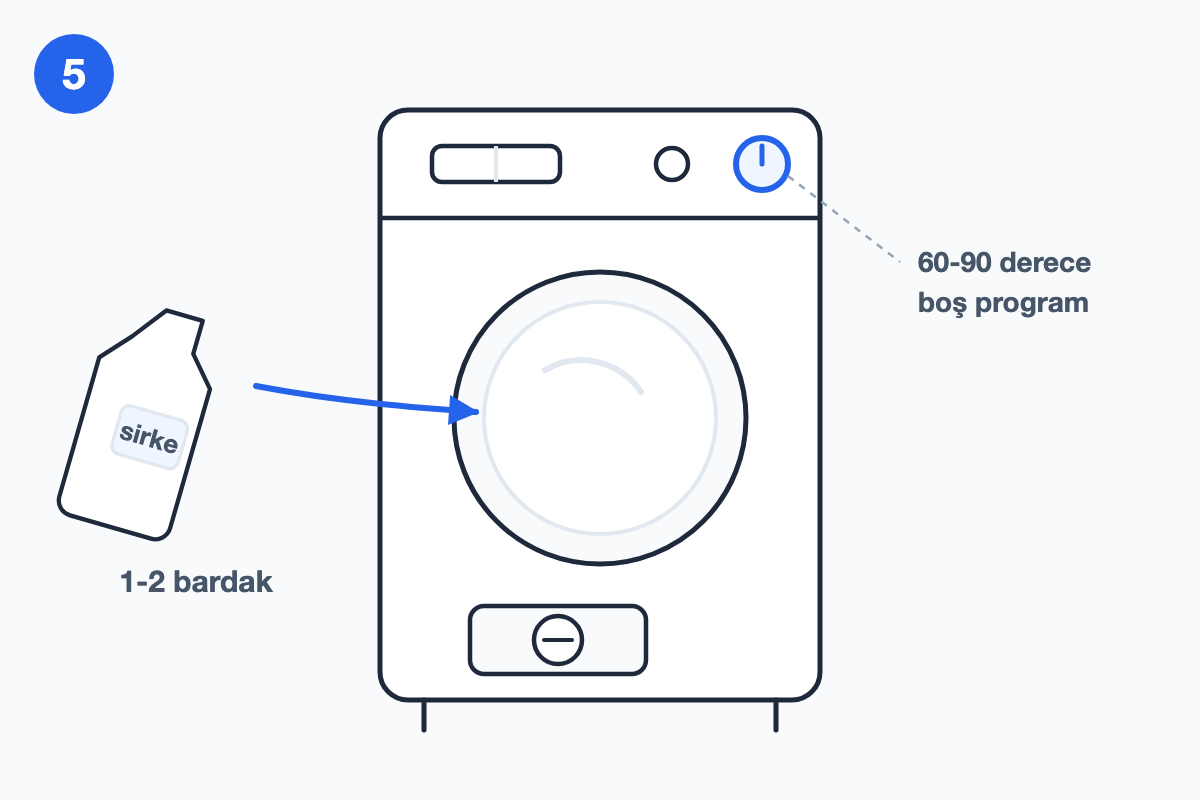
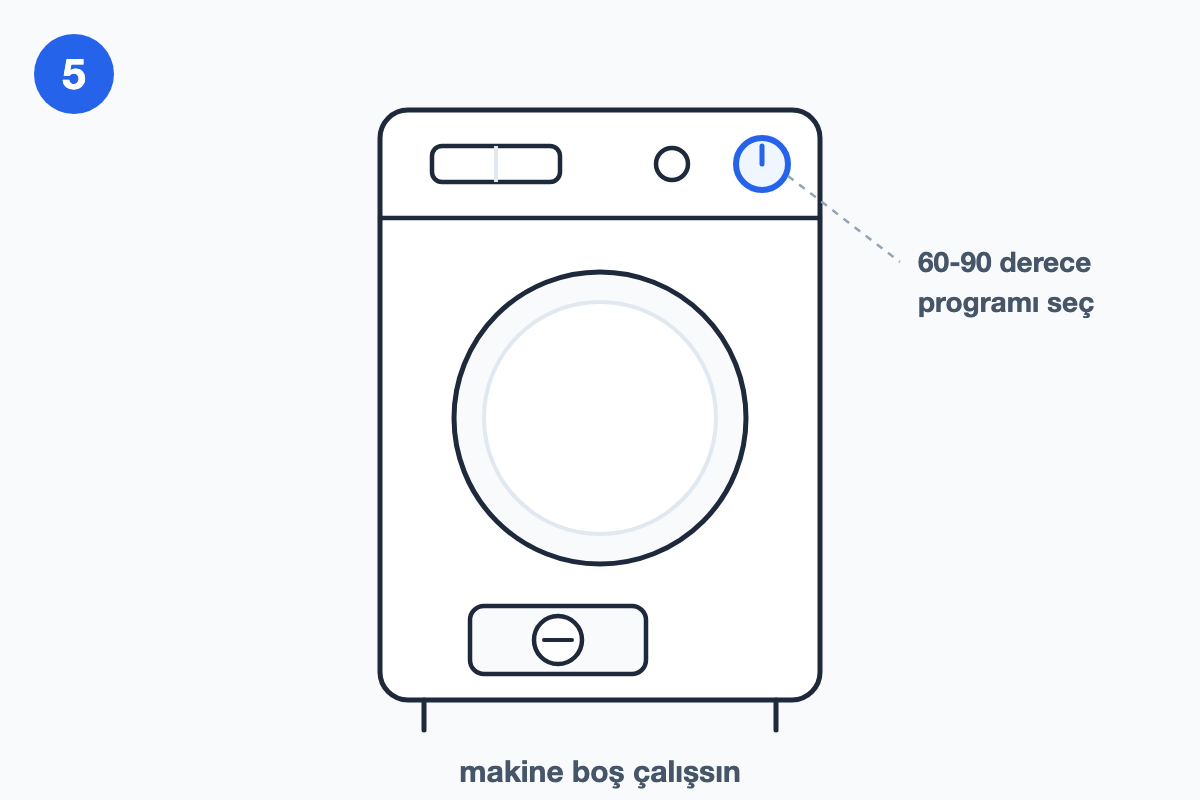
Sirke kurali: iki koku rehberinden tavsiye cikarildi + 5 kare yenilendi (SW v8)
Tolga kurali (22 Agu): "makinaya zarar verebilecek disaridan eklenecek bir
sivi ile ilgili tavsiye verme". Kaynak: PAZ foyu + GRF teslim notu.

Metin (3 dosya):
- camasir-makinesi-kokuyor: tools/steps/govde/2 FAQ/2 ozet + steps alt metni
- bulasik-makinesi-kokuyor: tools/steps/govde/FAQ/ozet + steps alt metni
- kirec-ve-tambur: dogrulanamayan "olculu kullanima sicak bakiyor" iddiasi
  govdede VE FAQ'ta duzeltildi (foy govdeyi yaziyordu; ayni iddia FAQ'ta da
  vardi, birakilsa sayfa kendi icinde celisirdi)
Adim sayisi degismedi -> rehberDenetimi() gorsel-adim hizasi bozulmadi.

Gorsel (5 kare, PNG + WebP):
- bulasik: kapak, adim-01, adim-03, adim-06
- camasir: adim-05
KAPSAM DUZELTMESI: GRF notu "6 PNG + 6 WebP" diyordu. Olctum ->
camasir kapak.webp 19 Agu'da GERCEK FOTOGRAFA cevrilmis (Kling seti,
coverAlt "turkuaz havlular" onunla hizali) ve cozucude webp png'yi yeniyor
(GORSEL_UZANTILARI). Cizim webp'i uretilseydi fotograf kapak cizime geri
donerdi -> uretilmedi. PNG yine de kopyalandi (webp bir gun kalkarsa
sirkeli cizim yuzeye cikmasin diye). bulasik kapak.webp ise HALA sirke
sisesiydi -> og:image olarak canlidaydi, degistirildi.

SW v7 -> v8: dosya adlari ayni; SWR birakilsaydi metin ilk acilista yeni,
gorsel bir acilis eski kalirdi -> "sirke onermiyoruz" cumlesi sirkeli
kareyle birlikte gorunurdu. Repoda yerlesik desen (v3->v4, v4->v5, v5->v6
hep ayni sebep), burada ayrica zarar duzeltmesi.

Kapilar: vite build temiz · rehber denetimi 123 ✓ · YK #65 208/208 ✓ ·
[…]

diff --git a/public/sw.js b/public/sw.js
@@ -46,7 +46,14 @@
 // ederdi. Yol SWR listesine alındı, sürüm artışı geriye dönük temizliği yapıyor.
 // v5 → v6 (20 Ağu, Kling dalga 3): camasir-kac-derecede-yikanir + camasir-makinesi-
 // ses-titresim kapakları AYNI adla değişti (kusurlu kareler yenilendi) → 19 Ağu kuralı.
-const SURUM = "benservis-v7";
+// v7 → v8 (22 Ağu, sirke kuralı): bulasik-makinesi-kokuyor kapak + adim-01/03/06 ve
+// camasir-makinesi-kokuyor adim-05 AYNI adla değişti. Buradaki fark, önceki dört
+// artıştan daha ağır: değişiklik bir kare tazelemesi değil, "makineye zarar verebilir"
+// düzeltmesi. SWR bıraksaydık metin İLK açılışta yeni gelir (HTML network-first),
+// görsel ise BİR açılış eski kalırdı → kullanıcı "sirke önermiyoruz" cümlesini sirke
+// şişeli kareyle birlikte görürdü; bulaşıkta o kare kapağın kendisi, yani og:image.
+// Bedeli (tüm cache boşalır, herkes yeniden indirir) bu pencereye tercih edildi.
+const SURUM = "benservis-v8";
 const KABUK_CACHE = `${SURUM}-kabuk`;
 const STATIK_CACHE = `${SURUM}-statik`;
 const DIZIN_CACHE = `${SURUM}-servis-dizini`;

diff --git a/content/blog/camasir-makinesi-kokuyor.md b/content/blog/camasir-makinesi-kokuyor.md
@@ -11,13 +11,13 @@ guide:
   time: "~25 dakika"
   totalTime: "PT25M"
   cost: "Ücretsiz"
-  tools: ["Yumuşak bez veya sünger", "Beyaz sirke (1-2 bardak)", "Havlu", "Eldiven (önerilir)"]
+  tools: ["Yumuşak bez veya sünger", "Havlu", "Eldiven (önerilir)"]
 steps:
   - "Tamburu boşalt; içinde çamaşır kalmasın."
   - "Kapı contasının kıvrımlarını aç ve nemli bezle sil; saç, tüy ve kalıntıyı temizle."
   - "Deterjan çekmecesini çıkar, ılık suda yıka, yuvasını da sil ve kurut."
   - "Alt köşedeki tahliye filtresini havlu ve kap koyarak çıkar, temizle, sonuna kadar geri tak."
-  - "Tambura 1-2 bardak beyaz sirke ekle ve makineyi boş, 60-90 derece bir programda çalıştır."
+  - "Makineyi boş olarak 60-90 derece bir programda çalıştır; katkı gerekiyorsa kılavuzunun ya da üreticinin önerdiği makine temizleyicisini kullan."
   - "Program bitince contayı ve kapak çevresini kurula, kapağı açık bırak."
 # GRF adım görselleri BAĞLANDI (4 Ağu 2026): public/tamir-gorsel/<slug>/adim-0N.png + kapak.png
 # Sıra ÖNEMLİ: images.steps[N-1] ↔ adim-0N.png ↔ yukarıdaki steps[N-1].
@@ -28,15 +28,15 @@ images:
     - "Kapı contası kıvrımlarının açılıp nemli bezle silinişini gösteren çizim"
     - "Deterjan çekmecesinin çıkarılıp ılık suda yıkanışını gösteren çizim"
     - "Alt köşedeki tahliye filtresinin havlu ve kapla çıkarılışını gösteren çizim"
-    - "Tambura beyaz sirke eklenip yüksek sıcaklıkta boş programın başlatılışını gösteren çizim"
+    - "Boş çamaşır makinesinde yüksek sıcaklıkta programın başlatılışını gösteren çizim"
     - "Program sonunda contanın kurulanıp kapağın açık bırakılışını gösteren çizim"
 faq:
   - q: "Çamaşır makinesi neden kötü kokar?"
     a: "En sık sebep nemli ortamda üreyen küf ve bakteridir. Kapı contasında biriken kir/nem, deterjan çekmecesindeki kalıntı, tıkalı tahliye filtresi, kireç birikimi ve hep düşük sıcaklıkta yıkamak kokuya yol açar."
   - q: "Çamaşır makinesi kokusu nasıl geçer?"
-    a: "Makineyi boş, en yüksek sıcaklıkta (60-90°) bir program ile çalıştır; tambura 1-2 bardak beyaz sirke ya da makine temizleyici ekle. Ardından kapı contasını, deterjan çekmecesini ve tahliye filtresini temizle. Her yıkamadan sonra kapağı açık bırak."
+    a: "Makineyi boş, en yüksek sıcaklıkta (60-90°) bir program ile çalıştır; gerekirse kılavuzunun önerdiği makine temizleyicisini kullan; sirke gibi ev tarifelerini önermiyoruz, bazı üreticiler lastik parçalara zarar verebileceğini belirtiyor. Ardından kapı contasını, deterjan çekmecesini ve tahliye filtresini temizle. Her yıkamadan sonra kapağı açık bırak."
   - q: "Kapı contasından küf kokusu geliyorsa ne yapmalı?"
-    a: "Ön yüklemeli makinelerde lastik contanın kıvrımlarında su ve kir birikir, küf yapar. Contayı bez ve beyaz sirke/karbonatla sil, kıvrımların arasını temizle ve kuru bırak. Küf lekesi çıkmıyorsa conta değişebilir."
+    a: "Ön yüklemeli makinelerde lastik contanın kıvrımlarında su ve kir birikir, küf yapar. Contayı nemli bezle, gerekirse biraz bulaşık deterjanlı suyla sil, kıvrımların arasını temizle ve kuru bırak. Küf lekesi çıkmıyorsa conta değişebilir."
   - q: "Her şeyi temizledim ama koku geçmiyor, sebebi ne?"
     a: "Conta, çekmece ve filtre temiz olduğu hâlde koku sürüyorsa tahliye hattında (pompa, hortum, sifon) biriken biyofilm ya da tıkanıklık olabilir. Bu genelde servis işidir; kesin tahmini Benservis'ten al."
 ---
@@ -69,7 +69,7 @@ Güvenli ve çoğu zaman ücretsiz:
 
 **4. Alt köşedeki tahliye filtresini havlu ve kap koyarak çıkar, temizle, sonuna kadar geri tak.** Bu adımın ayrıntısı ayrı rehberimizde: [tahliye filtresi nasıl temizlenir](/blog/camasir-makinesi-tahliye-filtresi-temizleme/).
 
-**5. Tambura 1-2 bardak beyaz sirke ekle ve makineyi boş, 60-90 derece bir programda çalıştır.**
+**5. Makineyi boş olarak 60-90 derece bir programda çalıştır.** Kokuyu asıl alan sıcaklıktır; katkı şart değildir. Bir temizleyici kullanacaksan cihazının kullanım kılavuzuna bak — kılavuz bir ürün adı veriyorsa onu, vermiyorsa üreticinin kendi makine temizleyicisini kullan. ⚠ İnternetteki sirke ve karbonat tariflerini bu sayfada önermiyoruz: bazı üreticiler bunların lastik conta ve hortumlarda yıpranmaya yol açabileceğini açıkça belirtiyor, ve bir uyuşmazlıkta garanti değerlendirmesi kılavuzun metnine bakar.
 
 **6. Program bitince contayı ve kapak çevresini kurula, kapağı açık bırak.**
 
@@ -91,10 +91,10 @@ Temizlik çoğu zaman ücretsizdir. Conta ya da tahliye/pompa arızası çıkars
 Genelde nemde üreyen küf/bakteri; ayrıca conta, çekmece, tıkalı filtre ve kireç.
 
 **Koku nasıl geçer?**
-Boş 60-90° program + sirke/temizleyici; sonra conta, çekmece ve filtre temizliği; kapağı açık bırak.
+Boş 60-90° program (gerekirse üreticinin temizleyicisi); sonra conta, çekmece ve filtre temizliği; kapağı açık bırak.
 
 **Contadan küf kokusu?**
-Kıvrımları sirke/karbonatla sil, kuru bırak; çıkmazsa conta değişebilir.
+Kıvrımları nemli bezle sil, kuru bırak; çıkmazsa conta değişebilir.
 
 **Her şey temiz ama koku sürüyorsa?**
 Tahliye hattında biyofilm/tıkanıklık olabilir — servis işidir.

diff --git a/content/blog/bulasik-makinesi-kokuyor.md b/content/blog/bulasik-makinesi-kokuyor.md
@@ -11,14 +11,14 @@ guide:
   time: "~20 dakika"
   totalTime: "PT20M"
   cost: "Ücretsiz"
-  tools: ["Sünger veya yumuşak bez", "Beyaz sirke (1-2 bardak)", "Eldiven (önerilir)"]
+  tools: ["Sünger veya yumuşak bez", "Eldiven (önerilir)"]
 steps:
   - "Makineyi kapat ve boşalt; içinde bulaşık kalmasın."
   - "Taban filtresini çevirip çıkar, altındaki süzgeci de al."
   - "Filtreyi ve süzgeci akan suyun altında sünger yardımıyla temizle, yemek artıklarını at."
   - "Filtre yuvasını ve tabandaki durgun suyu bezle sil, sonra parçaları yerine tak."
   - "Kapı contasının kıvrımlarını nemli bezle sil — kalıntı orada birikir."
-  - "Hazneye 1-2 bardak beyaz sirke koy ve makineyi boş, en yüksek sıcaklıktaki programda çalıştır."
+  - "Makineyi boş olarak en yüksek sıcaklıktaki programda çalıştır; katkı gerekiyorsa kılavuzunun ya da üreticinin önerdiği makine temizleyicisini kullan."
   - "Program bittikten sonra kapağı aralık bırak; nem çıkmadan koku geri gelir."
 # GRF adım görselleri BAĞLANDI (4 Ağu 2026): public/tamir-gorsel/<slug>/adim-0N.png + kapak.png
 # Sıra ÖNEMLİ: images.steps[N-1] ↔ adim-0N.png ↔ yukarıdaki steps[N-1].
@@ -30,13 +30,13 @@ images:
     - "Filtre ve süzgecin akan su altında süngerle temizlenişini gösteren çizim"
     - "Filtre yuvasının ve tabandaki durgun suyun bezle silinişini gösteren çizim"
     - "Kapı contası kıvrımlarının nemli bezle silinişini gösteren çizim"
-    - "Hazneye beyaz sirke konulup boş, yüksek sıcaklıkta programın başlatılışını gösteren çizim"
+    - "Boş bulaşık makinesinde yüksek sıcaklıkta programın başlatılışını gösteren çizim"
     - "Program sonunda bulaşık makinesi kapağının aralık bırakılışını gösteren çizim"
 faq:
   - q: "Bulaşık makinesi neden kokar?"
     a: "En sık sebep taban filtresinde ve süzgeçte biriken yemek artıklarının çürümesidir. Ayrıca kireç ve yağ birikimi, kapı contasındaki kalıntı, tıkalı püskürtme kolları ve tahliye hattındaki tıkanıklık kokuya yol açar."
   - q: "Bulaşık makinesi kokusu nasıl geçer?"
-    a: "Önce taban filtresini çıkar, yemek artıklarını temizle. Sonra makineyi boş, en yüksek sıcaklıkta bir programda çalıştır; hazneye 1-2 bardak beyaz sirke ya da makine temizleyici koy. Kapı contasını sil, tuz ve parlatıcıyı kontrol et, her yıkamadan sonra kapağı aralık bırak."
+    a: "Önce taban filtresini çıkar, yemek artıklarını temizle. Sonra makineyi boş, en yüksek sıcaklıkta bir programda çalıştır; gerekirse kılavuzunun önerdiği makine temizleyicisini kullan; sirke gibi ev tarifelerini önermiyoruz. Kapı contasını sil, tuz ve parlatıcıyı kontrol et, her yıkamadan sonra kapağı aralık bırak."
   - q: "Lağım gibi kokuyorsa sebebi ne?"
     a: "Keskin lağım kokusu genelde tahliye hortumunda ya da tahliye bağlantısında biriken kir/biyofilm veya tıkanıklıktan gelir. Filtre ve iç temizlik çözmüyorsa tahliye hattı kontrol edilmelidir; bu genelde servis işidir."
   - q: "Bulaşıklar temiz ama makine kokuyorsa ne yapmalı?"
@@ -73,7 +73,7 @@ Güvenli ve çoğu zaman ücretsiz:
 
 **5. Kapı contasının kıvrımlarını nemli bezle sil — kalıntı orada birikir.**
 
-**6. Hazneye 1-2 bardak beyaz sirke koy ve makineyi boş, en yüksek sıcaklıktaki programda çalıştır.**
+**6. Makineyi boş olarak en yüksek sıcaklıktaki programda çalıştır.** İşi yapan sıcaklıktır. Katkı kullanacaksan kılavuzuna bak; kılavuz bir ürün adı veriyorsa onu, vermiyorsa üreticinin kendi makine temizleyicisini kullan. ⚠ Sirke ve benzeri ev tarifelerini önermiyoruz — bazı üreticiler kapı contası ve sızdırmazlık parçalarında yıpranmaya yol açabileceğini belirtiyor.
 
 **7. Program bittikten sonra kapağı aralık bırak; nem çıkmadan koku geri gelir.**
 
@@ -95,7 +95,7 @@ Temizlik ücretsizdir. Tahliye/pompa arızası çıkarsa işin kapsamı: [Bulaş
 Genelde filtredeki yemek artığı çürümesi; ayrıca yağ/kireç, conta, tıkalı kollar, tahliye.
 
 **Koku nasıl geçer?**
-Filtre temizliği + boş sıcak program (sirke) + conta silme + tuz/parlatıcı + kapağı aralık bırak.
+Filtre temizliği + boş sıcak program + conta silme + tuz/parlatıcı + kapağı aralık bırak.
 
 **Lağım gibi kokuyorsa?**
 Genelde tahliye hattında biyofilm/tıkanıklık — iç temizlik çözmezse servis.

diff --git a/content/blog/camasir-makinesi-kirec-ve-tambur-temizligi.md b/content/blog/camasir-makinesi-kirec-ve-tambur-temizligi.md
@@ -25,7 +25,7 @@ faq:
   - q: "Bakım yıkaması kaç derecede yapılır?"
     a: "Makinende tambur ya da kazan temizleme programı varsa doğru cevap odur; o program sıcaklığı ve devri bu iş için zaten ayarlanmıştır. Böyle bir program yoksa üreticiler pamuklu programı en yüksek sıcaklıkta, tambur tamamen boşken çalıştırmayı önerir. Düşük sıcaklıkta yapılan bakım yıkaması istenen etkiyi vermez, çünkü asıl mesele yağ ve kalıntının çözülmesidir."
   - q: "Çamaşır makinesine sirke ya da karbonat koymak zararlı mı?"
-    a: "Bu konuda üreticiler aynı şeyi söylemiyor. Bazı büyük markaların destek sayfaları sirkenin lastik conta ve hortumlara zarar verebileceğini belirtip kendi temizleyici ürünlerini önerirken, bazıları ölçülü kullanıma sıcak bakıyor. Kaynaklar çeliştiği için burada tek bir tarif vermiyoruz: geçerli olan senin cihazının kullanım kılavuzudur, çünkü garanti kapsamı da o metne bakar."
+    a: "Bu konuda üreticiler aynı şeyi söylemiyor. Bazı büyük markaların destek sayfaları sirkenin lastik conta ve hortumlara zarar verebileceğini belirtip kendi temizleyici ürünlerini öneriyor; ölçülü kullanılırsa sorun olmayacağı görüşünün arkasında ise bir üretici kaynağı bulamadık. Net bir üretici mutabakatı olmadığı için burada tek bir tarif vermiyoruz: geçerli olan senin cihazının kullanım kılavuzudur, çünkü garanti kapsamı da o metne bakar."
   - q: "Kireç birikmesi makineye ne yapar?"
     a: "Kireç ısıtıcı yüzeyde ve su yollarında birikerek suyun ısınmasını zorlaştırır; makine aynı sıcaklığa ulaşmak için daha uzun çalışır ve elektrik tüketimi artar. Zamanla tamburda ve kalıntıyla birleşerek kokuya, çamaşırda beyazlık kaybına ve leke izlerine yol açar. Düzenli bakım yıkaması ve suyun sertliğine uygun aralıkta kireç çözme bu birikimi kontrol altında tutar."
 images:
@@ -72,7 +72,7 @@ Doğru sayıyı tahmin etmeye gerek yok: **su idarenin yayımladığı su kalite
 
 ## Sirke ve karbonat tartışmasında dürüst duruş
 
-İnternetteki her temizlik tarifinde bu ikisi var. Üreticilerin sayfalarına bakınca tablo bu kadar net değil: **bazı büyük markaların destek sayfaları sirkeye açıkça karşı çıkıyor**, gerekçe olarak lastik conta ve hortumlarda zamanla oluşabilecek yıpranmayı gösteriyor ve kendi makine temizleyicilerini öneriyor. Bazı üreticiler ise ölçülü kullanıma daha sıcak bakıyor.
+İnternetteki her temizlik tarifinde bu ikisi var. Üreticilerin sayfalarına bakınca tablo bu kadar net değil: **bazı büyük markaların destek sayfaları sirkeye açıkça karşı çıkıyor**, gerekçe olarak lastik conta ve hortumlarda zamanla oluşabilecek yıpranmayı gösteriyor ve kendi makine temizleyicilerini öneriyor. İnternette yaygın olan "ölçülü kullanılırsa sorun olmaz" görüşünün arkasında ise bir üretici kaynağı bulamadık.
 
 ⚠ Kaynaklar birbirini tutmadığı için burada tek bir tarif vermiyoruz. **Geçerli olan senin cihazının kullanım kılavuzudur** — hem üretici o metinden sorumludur hem de bir uyuşmazlıkta garanti değerlendirmesi o metne bakar. Kılavuzun bir ürün adı veriyorsa onu kullan; hiçbir şey demiyorsa üreticinin kendi temizleyicisi en güvenli yoldur. Karbonat için de aynı ilke geçerli.
 
